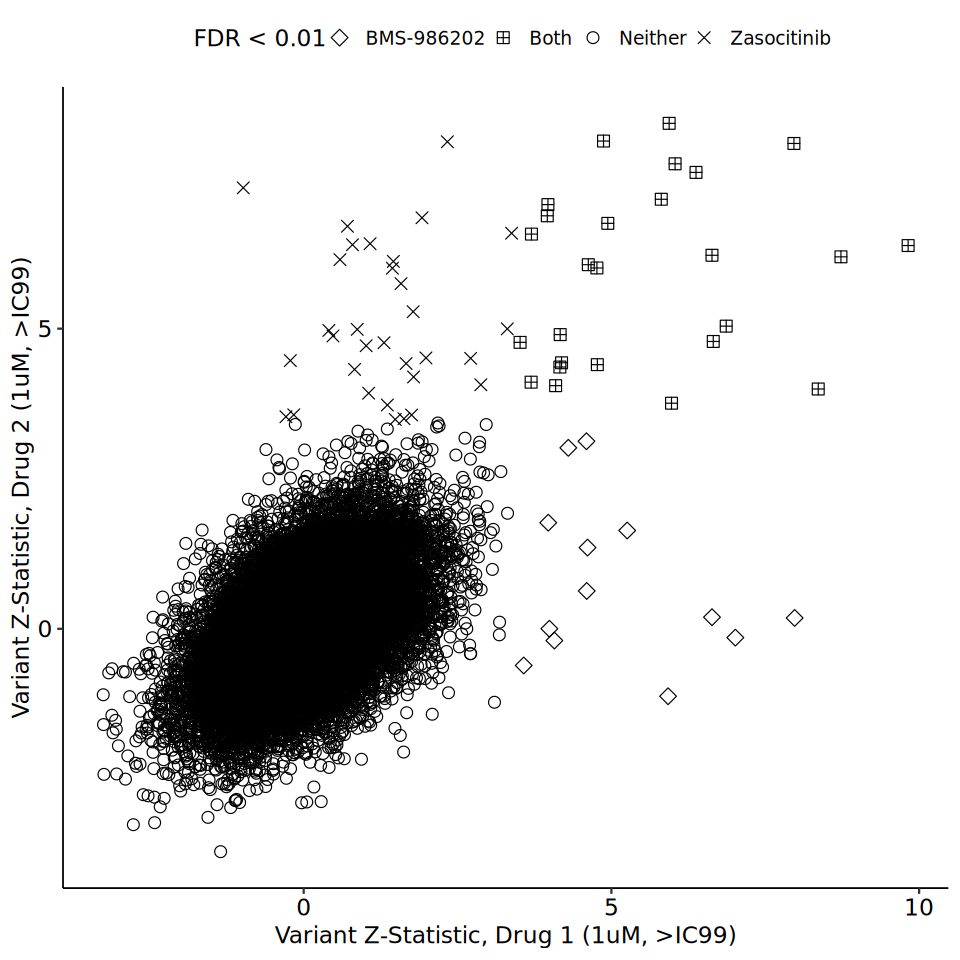
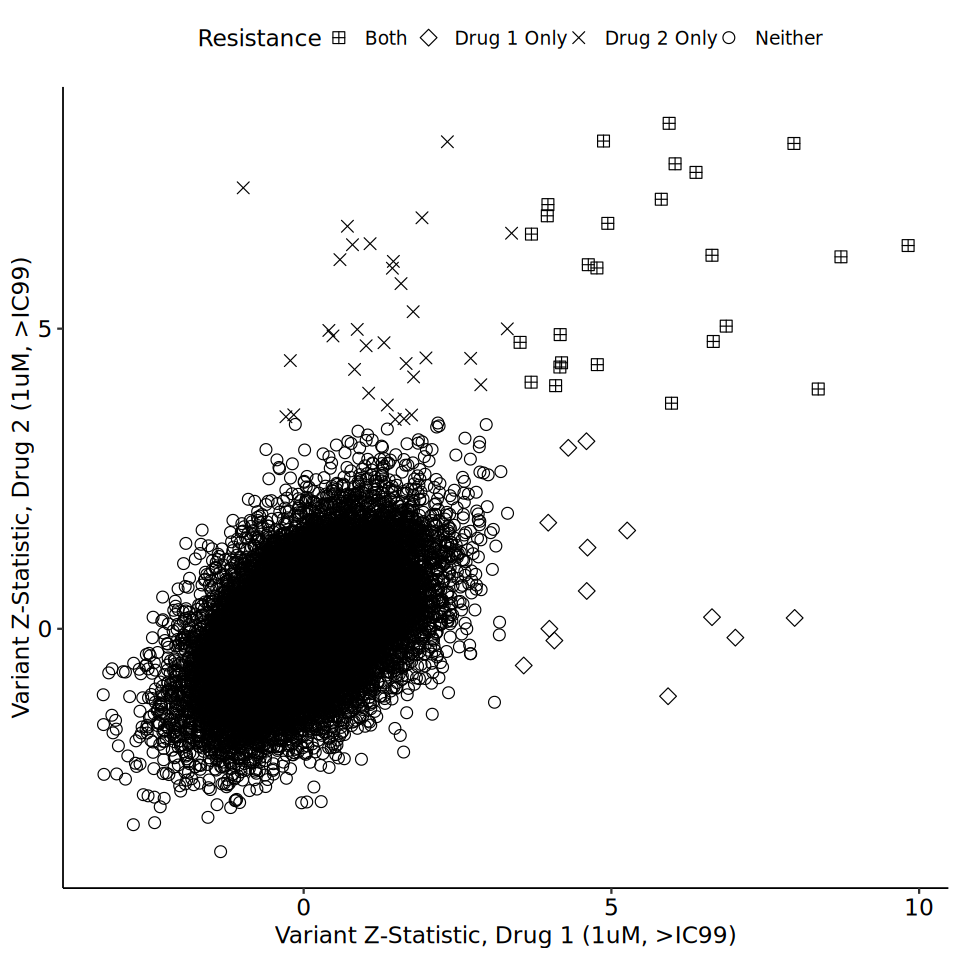
full pdf set

Changed region(s): [[0.1875, 0.0312, 0.875, 0.0625]]

diff --git a/notebooks/TYK2-Two-Color-Plots.md b/notebooks/TYK2-Two-Color-Plots.md
@@ -14,6 +14,20 @@ library(tidyverse)
 
 </details>
 
+    Loading required package: ggplot2
+
+    ── Attaching core tidyverse packages ──────────────────────── tidyverse 2.0.0 ──
+    ✔ dplyr     1.1.4     ✔ readr     2.1.5
+    ✔ forcats   1.0.0     ✔ stringr   1.5.1
+    ✔ lubridate 1.9.4     ✔ tibble    3.2.1
+    ✔ purrr     1.0.2     ✔ tidyr     1.3.1
+    ── Conflicts ────────────────────────────────────────── tidyverse_conflicts() ──
+    ✖ readr::col_factor() masks scales::col_factor()
+    ✖ purrr::discard()    masks scales::discard()
+    ✖ dplyr::filter()     masks stats::filter()
+    ✖ dplyr::lag()        masks stats::lag()
+    ℹ Use the conflicted package (<http://conflicted.r-lib.org/>) to force all conflicts to become errors
+
 ### Figure 8
 
 <details class="code-fold">
@@ -76,25 +90,26 @@ sumstats_resist <- read_tsv("../paper/sumstats/TYK2-combined-cleaned.contrast.ts
            condition %in% c("IFNalpha+BMS-986202_1e-06", "IFNalpha+Zasocitinib_1e-06"),
            aa != "*") %>%
     select(pos, condition, aa, statistic_contrast, fdr_contrast) %>%
+    mutate(condition = if_else(condition == "IFNalpha+BMS-986202_1e-06", "drug1", "drug2")) %>%
     pivot_wider(names_from = condition, values_from = c(statistic_contrast, fdr_contrast)) %>%
-    mutate(`FDR < 0.01` = case_when(`fdr_contrast_IFNalpha+BMS-986202_1e-06` < 0.01 & `fdr_contrast_IFNalpha+Zasocitinib_1e-06` < 0.01 ~ "Both",
-                           `fdr_contrast_IFNalpha+BMS-986202_1e-06` < 0.01 & `fdr_contrast_IFNalpha+Zasocitinib_1e-06` > 0.01 ~ "BMS-986202",
-                           `fdr_contrast_IFNalpha+BMS-986202_1e-06` > 0.01 & `fdr_contrast_IFNalpha+Zasocitinib_1e-06` < 0.01 ~ "Zasocitinib",
-                           TRUE ~ "Neither"),
-          `FDR < 0.01` = if_else(`statistic_contrast_IFNalpha+Zasocitinib_1e-06` < 0 & `statistic_contrast_IFNalpha+BMS-986202_1e-06` < 0,
-                                 "Neither",
-                                 `FDR < 0.01`))
+    mutate(Resistance = case_when(fdr_contrast_drug1 < 0.01 & fdr_contrast_drug2 < 0.01 ~ "Both",
+                                   fdr_contrast_drug1 < 0.01 & fdr_contrast_drug2 > 0.01 ~ "Drug 1 Only",
+                                   fdr_contrast_drug1 > 0.01 & fdr_contrast_drug2 < 0.01 ~ "Drug 2 Only",
+                                   TRUE ~ "Neither"),
+          Resistance = if_else(statistic_contrast_drug2 < 0 & statistic_contrast_drug1 < 0,
+                                "Neither",
+                                Resistance))
 
 fig15 <- ggplot(sumstats_resist) +
-    geom_point(aes(x = `statistic_contrast_IFNalpha+BMS-986202_1e-06`,
-                   y = `statistic_contrast_IFNalpha+Zasocitinib_1e-06`,
-                   pch = `FDR < 0.01`), size = 3) +
+    geom_point(aes(x = statistic_contrast_drug1,
+                   y = statistic_contrast_drug2,
+                   pch = Resistance), size = 3) +
     theme_pubr(base_size = 14) +
     xlab("Variant Z-Statistic, Drug 1 (1uM, >IC99)") +
     ylab("Variant Z-Statistic, Drug 2 (1uM, >IC99)") +
     scale_shape_manual(values = c("Neither" = 1,
-                                  "BMS-986202" = 5,
-                                  "Zasocitinib" = 4,
+                                  "Drug 1 Only" = 5,
+                                  "Drug 2 Only" = 4,
                                   "Both" = 12))
 
 ggsave("../dataviz/patent/Fig15.pdf", fig15, width = 8, height = 8)
@@ -152,12 +167,12 @@ sumstats_potentiate <- read_tsv("../paper/sumstats/TYK2-combined-cleaned.contras
 bms_poten <- compute_difference(test = "IFNalpha100+BMS-986202_2e-08",
                                 control = "IFNalpha100_0",
                                 sumstats_potentiate) %>%
-    mutate(condition = "BMS-986202")
+    mutate(condition = "drug1")
 
 zaso_poten <- compute_difference(test = "IFNalpha100+Zasocitinib_7e-09",
                                 control = "IFNalpha100_0",
                                 sumstats_potentiate) %>%
-    mutate(condition = "Zasocitinib")
+    mutate(condition = "drug2")
 
 contrast_potentiate <- bind_rows(bms_poten, zaso_poten) %>%
     mutate(statistic = estimate / std.error,
@@ -166,24 +181,24 @@ contrast_potentiate <- bind_rows(bms_poten, zaso_poten) %>%
            fdr = p.adjust(p.value, method = "BH")) %>%
     select(pos, aa, statistic, fdr, condition) %>%
     pivot_wider(names_from = condition, values_from = c(statistic, fdr)) %>%
-    mutate("FDR < 0.01" = case_when(`fdr_BMS-986202` < 0.01 & `fdr_Zasocitinib` > 0.01 ~ "BMS-986202",
-                               `fdr_BMS-986202` > 0.01 & `fdr_Zasocitinib` < 0.01 ~ "Zasocitinib",
-                               `fdr_BMS-986202` < 0.01 & `fdr_Zasocitinib` < 0.01 ~ "Both",
+    mutate(Potentiation = case_when(fdr_drug1 < 0.01 & fdr_drug2 > 0.01 ~ "Drug 1 Only",
+                               fdr_drug1 > 0.01 & fdr_drug2 < 0.01 ~ "Drug 2 Only",
+                               fdr_drug1 < 0.01 & fdr_drug2 < 0.01 ~ "Both",
                                TRUE ~ "Neither"),
-           `FDR < 0.01` = if_else(`statistic_BMS-986202` > 0,
+           Potentiation = if_else(statistic_drug1 > 0,
                                  "Neither",
-                                 `FDR < 0.01`))
+                                 Potentiation))
 
 fig16 <- ggplot(contrast_potentiate) +
-    geom_point(aes(x = `statistic_BMS-986202`,
-                   y = `statistic_Zasocitinib`,
-                   pch = `FDR < 0.01`), size = 3) +
+    geom_point(aes(x = statistic_drug1,
+                   y = statistic_drug2,
+                   pch = Potentiation), size = 3) +
     theme_pubr(base_size = 14) +
     xlab("Variant Z-Statistic, Drug 1 (IC75), Relative to IFN-alpha") +
     ylab("Variant Z-Statistic, Drug 2 (IC75), Relative to IFN-alpha") +
     scale_shape_manual(values = c("Neither" = 1,
-                                  "BMS-986202" = 5,
-                                  "Zasocitinib" = 4,
+                                  "Drug 1 Only" = 5,
+                                  "Drug 2 Only" = 4,
                                   "Both" = 12))
 
 ggsave("../dataviz/patent/Fig16.pdf", fig16, width = 8, height = 8)
@@ -326,7 +341,6 @@ amsh_long <- cre %>%
            compound == "aMSH") %>%    
         ggplot(aes(y = pos, x = fct_rev(aa), fill = statistic)) +
         geom_tile() +
-        #coord_fixed(ratio = 1 / 3) +
         scale_fill_scico(palette = "grayC", limits = c(-10, 0), oob = scales::squish) +
         theme_pubr(base_size = 10) +
         theme(legend.position = "top",
